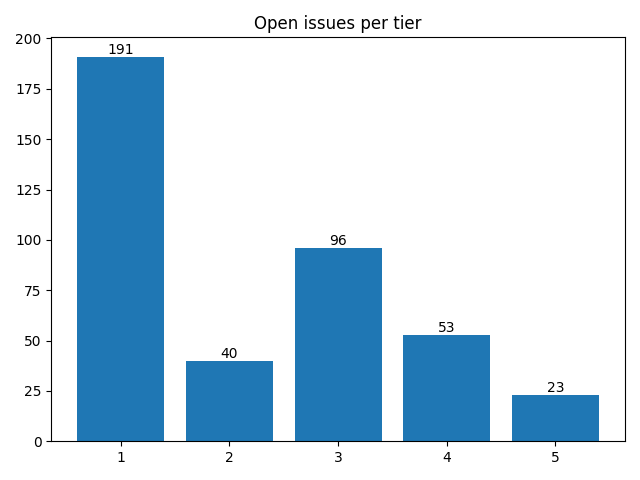
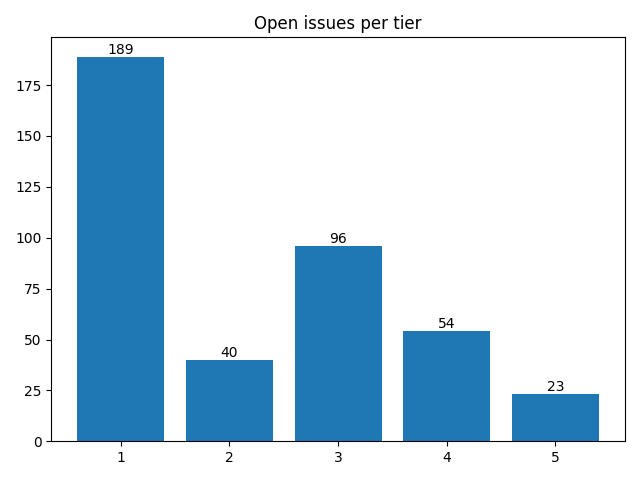
Apply automatic changes

diff --git a/docs/analytics.html b/docs/analytics.html
@@ -74,8 +74,8 @@ td .material-icons { display:inline-flex; vertical-align: top; font-size:1.1rem;
 						</tr>
 						<tr>
 							<td>Feb</td>
-							<td>20</td>
-							<td>18</td>
+							<td>24</td>
+							<td>23</td>
 						</tr>
 					</table>
 				</div>
@@ -166,19 +166,19 @@ td .material-icons { display:inline-flex; vertical-align: top; font-size:1.1rem;
 				<tr>
 					<td>1</td>
 					<td>
-						<a href="http://github.com/notofonts/armenian/issues">armenian</a>,  						<a href="http://github.com/notofonts/bamum/issues">bamum</a>,  						<a href="http://github.com/notofonts/canadian-aboriginal/issues">canadian-aboriginal</a>,  						<a href="http://github.com/notofonts/chakma/issues">chakma</a>,  						<a href="http://github.com/notofonts/chorasmian/issues">chorasmian</a>,  						<a href="http://github.com/notofonts/deseret/issues">deseret</a>,  						<a href="http://github.com/notofonts/dogra/issues">dogra</a>,  						<a href="http://github.com/notofonts/elbasan/issues">elbasan</a>,  						<a href="http://github.com/notofonts/ethiopic/issues">ethiopic</a>,  						<a href="http://github.com/notofonts/glagolitic/issues">glagolitic</a>,  						<a href="http://github.com/notofonts/hanunoo/issues">hanunoo</a>,  						<a href="http://github.com/notofonts/kharoshthi/issues">kharoshthi</a>,  						<a href="http://github.com/notofonts/khitan-small-script/issues">khitan-small-script</a>,  						<a href="http://github.com/notofonts/khudawadi/issues">khudawadi</a>,  						<a href="http://github.com/notofonts/lydian/issues">lydian</a>,  						<a href="http://github.com/notofonts/meetei-mayek/issues">meetei-mayek</a>,  						<a href="http://github.com/notofonts/miao/issues">miao</a>,  						<a href="http://github.com/notofonts/mongolian/issues">mongolian</a>,  						<a href="http://github.com/notofonts/multani/issues">multani</a>,  						<a href="http://github.com/notofonts/music/issues">music</a>,  						<a href="http://github.com/notofonts/nko/issues">nko</a>,  						<a href="http://github.com/notofonts/old-italic/issues">old-italic</a>,  						<a href="http://github.com/notofonts/pahawh-hmong/issues">pahawh-hmong</a>,  						<a href="http://github.com/notofonts/phags-pa/issues">phags-pa</a>,  						<a href="http://github.com/notofonts/rejang/issues">rejang</a>,  						<a href="http://github.com/notofonts/saurashtra/issues">saurashtra</a>,  						<a href="http://github.com/notofonts/sogdian/issues">sogdian</a>,  						<a href="http://github.com/notofonts/sundanese/issues">sundanese</a>,  						<a href="http://github.com/notofonts/tai-le/issues">tai-le</a>,  						<a href="http://github.com/notofonts/tai-tham/issues">tai-tham</a>,  						<a href="http://github.com/notofonts/takri/issues">takri</a>,  						<a href="http://github.com/notofonts/tangsa/issues">tangsa</a>,  						<a href="http://github.com/notofonts/tangut/issues">tangut</a> 
+						<a href="http://github.com/notofonts/armenian/issues">armenian</a>,  						<a href="http://github.com/notofonts/bamum/issues">bamum</a>,  						<a href="http://github.com/notofonts/canadian-aboriginal/issues">canadian-aboriginal</a>,  						<a href="http://github.com/notofonts/chakma/issues">chakma</a>,  						<a href="http://github.com/notofonts/chorasmian/issues">chorasmian</a>,  						<a href="http://github.com/notofonts/cuneiform/issues">cuneiform</a>,  						<a href="http://github.com/notofonts/deseret/issues">deseret</a>,  						<a href="http://github.com/notofonts/dogra/issues">dogra</a>,  						<a href="http://github.com/notofonts/elbasan/issues">elbasan</a>,  						<a href="http://github.com/notofonts/ethiopic/issues">ethiopic</a>,  						<a href="http://github.com/notofonts/glagolitic/issues">glagolitic</a>,  						<a href="http://github.com/notofonts/hanunoo/issues">hanunoo</a>,  						<a href="http://github.com/notofonts/kharoshthi/issues">kharoshthi</a>,  						<a href="http://github.com/notofonts/khitan-small-script/issues">khitan-small-script</a>,  						<a href="http://github.com/notofonts/khudawadi/issues">khudawadi</a>,  						<a href="http://github.com/notofonts/lydian/issues">lydian</a>,  						<a href="http://github.com/notofonts/meetei-mayek/issues">meetei-mayek</a>,  						<a href="http://github.com/notofonts/miao/issues">miao</a>,  						<a href="http://github.com/notofonts/mongolian/issues">mongolian</a>,  						<a href="http://github.com/notofonts/multani/issues">multani</a>,  						<a href="http://github.com/notofonts/music/issues">music</a>,  						<a href="http://github.com/notofonts/nko/issues">nko</a>,  						<a href="http://github.com/notofonts/old-italic/issues">old-italic</a>,  						<a href="http://github.com/notofonts/oriya/issues">oriya</a>,  						<a href="http://github.com/notofonts/pahawh-hmong/issues">pahawh-hmong</a>,  						<a href="http://github.com/notofonts/phags-pa/issues">phags-pa</a>,  						<a href="http://github.com/notofonts/rejang/issues">rejang</a>,  						<a href="http://github.com/notofonts/saurashtra/issues">saurashtra</a>,  						<a href="http://github.com/notofonts/sogdian/issues">sogdian</a>,  						<a href="http://github.com/notofonts/sundanese/issues">sundanese</a>,  						<a href="http://github.com/notofonts/tai-le/issues">tai-le</a>,  						<a href="http://github.com/notofonts/tai-tham/issues">tai-tham</a>,  						<a href="http://github.com/notofonts/takri/issues">takri</a>,  						<a href="http://github.com/notofonts/tangsa/issues">tangsa</a>,  						<a href="http://github.com/notofonts/tangut/issues">tangut</a> 
 					</td>
 				</tr>
 				<tr>
 					<td>2</td>
 					<td>
-						<a href="http://github.com/notofonts/brahmi/issues">brahmi</a>,  						<a href="http://github.com/notofonts/coptic/issues">coptic</a>,  						<a href="http://github.com/notofonts/duployan/issues">duployan</a>,  						<a href="http://github.com/notofonts/georgian/issues">georgian</a>,  						<a href="http://github.com/notofonts/grantha/issues">grantha</a>,  						<a href="http://github.com/notofonts/khojki/issues">khojki</a>,  						<a href="http://github.com/notofonts/old-hungarian-ui/issues">old-hungarian-ui</a>,  						<a href="http://github.com/notofonts/old-turkic/issues">old-turkic</a>,  						<a href="http://github.com/notofonts/oriya/issues">oriya</a>,  						<a href="http://github.com/notofonts/sign-writing/issues">sign-writing</a>,  						<a href="http://github.com/notofonts/tagalog/issues">tagalog</a>,  						<a href="http://github.com/notofonts/tamil/issues">tamil</a> 
+						<a href="http://github.com/notofonts/brahmi/issues">brahmi</a>,  						<a href="http://github.com/notofonts/coptic/issues">coptic</a>,  						<a href="http://github.com/notofonts/duployan/issues">duployan</a>,  						<a href="http://github.com/notofonts/georgian/issues">georgian</a>,  						<a href="http://github.com/notofonts/grantha/issues">grantha</a>,  						<a href="http://github.com/notofonts/khojki/issues">khojki</a>,  						<a href="http://github.com/notofonts/old-hungarian-ui/issues">old-hungarian-ui</a>,  						<a href="http://github.com/notofonts/old-turkic/issues">old-turkic</a>,  						<a href="http://github.com/notofonts/sign-writing/issues">sign-writing</a>,  						<a href="http://github.com/notofonts/tagalog/issues">tagalog</a>,  						<a href="http://github.com/notofonts/tamil/issues">tamil</a> 
 					</td>
 				</tr>
 				<tr>
 					<td>3</td>
 					<td>
-						<a href="http://github.com/notofonts/ahom/issues">ahom</a>,  						<a href="http://github.com/notofonts/balinese/issues">balinese</a>,  						<a href="http://github.com/notofonts/manichaean/issues">manichaean</a>,  						<a href="http://github.com/notofonts/nandinagari/issues">nandinagari</a>,  						<a href="http://github.com/notofonts/sharada/issues">sharada</a>,  						<a href="http://github.com/notofonts/siddham/issues">siddham</a>,  						<a href="http://github.com/notofonts/thai/issues">thai</a>,  						<a href="http://github.com/notofonts/tifinagh/issues">tifinagh</a> 
+						<a href="http://github.com/notofonts/ahom/issues">ahom</a>,  						<a href="http://github.com/notofonts/balinese/issues">balinese</a>,  						<a href="http://github.com/notofonts/manichaean/issues">manichaean</a>,  						<a href="http://github.com/notofonts/nandinagari/issues">nandinagari</a>,  						<a href="http://github.com/notofonts/sharada/issues">sharada</a>,  						<a href="http://github.com/notofonts/siddham/issues">siddham</a>,  						<a href="http://github.com/notofonts/telugu/issues">telugu</a>,  						<a href="http://github.com/notofonts/thai/issues">thai</a>,  						<a href="http://github.com/notofonts/tifinagh/issues">tifinagh</a> 
 					</td>
 				</tr>
 				<tr>
@@ -190,13 +190,13 @@ td .material-icons { display:inline-flex; vertical-align: top; font-size:1.1rem;
 				<tr>
 					<td>5</td>
 					<td>
-						<a href="http://github.com/notofonts/arabic/issues">arabic</a>,  						<a href="http://github.com/notofonts/bengali/issues">bengali</a>,  						<a href="http://github.com/notofonts/bhaiksuki/issues">bhaiksuki</a>,  						<a href="http://github.com/notofonts/gurmukhi/issues">gurmukhi</a>,  						<a href="http://github.com/notofonts/kawi/issues">kawi</a>,  						<a href="http://github.com/notofonts/old-hungarian/issues">old-hungarian</a>,  						<a href="http://github.com/notofonts/syloti-nagri/issues">syloti-nagri</a>,  						<a href="http://github.com/notofonts/telugu/issues">telugu</a> 
+						<a href="http://github.com/notofonts/bengali/issues">bengali</a>,  						<a href="http://github.com/notofonts/bhaiksuki/issues">bhaiksuki</a>,  						<a href="http://github.com/notofonts/gurmukhi/issues">gurmukhi</a>,  						<a href="http://github.com/notofonts/kawi/issues">kawi</a>,  						<a href="http://github.com/notofonts/old-hungarian/issues">old-hungarian</a>,  						<a href="http://github.com/notofonts/syloti-nagri/issues">syloti-nagri</a> 
 					</td>
 				</tr>
 				<tr>
 					<td>6</td>
 					<td>
-						<a href="http://github.com/notofonts/dives-akuru/issues">dives-akuru</a>,  						<a href="http://github.com/notofonts/gujarati/issues">gujarati</a>,  						<a href="http://github.com/notofonts/modi/issues">modi</a> 
+						<a href="http://github.com/notofonts/arabic/issues">arabic</a>,  						<a href="http://github.com/notofonts/dives-akuru/issues">dives-akuru</a>,  						<a href="http://github.com/notofonts/gujarati/issues">gujarati</a>,  						<a href="http://github.com/notofonts/modi/issues">modi</a> 
 					</td>
 				</tr>
 				<tr>
@@ -235,21 +235,21 @@ td .material-icons { display:inline-flex; vertical-align: top; font-size:1.1rem;
 
 									<a href="http://github.com/notofonts/malayalam/issues">malayalam</a>: 7, 
 
-									<a href="http://github.com/notofonts/gujarati/issues">gujarati</a>: 6, 
+									<a href="http://github.com/notofonts/arabic/issues">arabic</a>: 6, 
 
-									<a href="http://github.com/notofonts/arabic/issues">arabic</a>: 5, 
+									<a href="http://github.com/notofonts/gujarati/issues">gujarati</a>: 6, 
 
 									<a href="http://github.com/notofonts/bengali/issues">bengali</a>: 5, 
 
 									<a href="http://github.com/notofonts/gurmukhi/issues">gurmukhi</a>: 5, 
 
-									<a href="http://github.com/notofonts/telugu/issues">telugu</a>: 5, 
-
-									<a href="http://github.com/notofonts/oriya/issues">oriya</a>: 2, 
+									<a href="http://github.com/notofonts/telugu/issues">telugu</a>: 3, 
 
 									<a href="http://github.com/notofonts/tamil/issues">tamil</a>: 2, 
 
-									<a href="http://github.com/notofonts/armenian/issues">armenian</a>: 1
+									<a href="http://github.com/notofonts/armenian/issues">armenian</a>: 1, 
+
+									<a href="http://github.com/notofonts/oriya/issues">oriya</a>: 1
 							</td>
 						</tr>
 						<tr>
@@ -362,6 +362,8 @@ td .material-icons { display:inline-flex; vertical-align: top; font-size:1.1rem;
 									<a href="http://github.com/notofonts/grantha/issues">grantha</a>: 2, 
 
 									<a href="http://github.com/notofonts/old-hungarian-ui/issues">old-hungarian-ui</a>: 2, 
+
+									<a href="http://github.com/notofonts/cuneiform/issues">cuneiform</a>: 1, 
 
 									<a href="http://github.com/notofonts/deseret/issues">deseret</a>: 1, 
 
